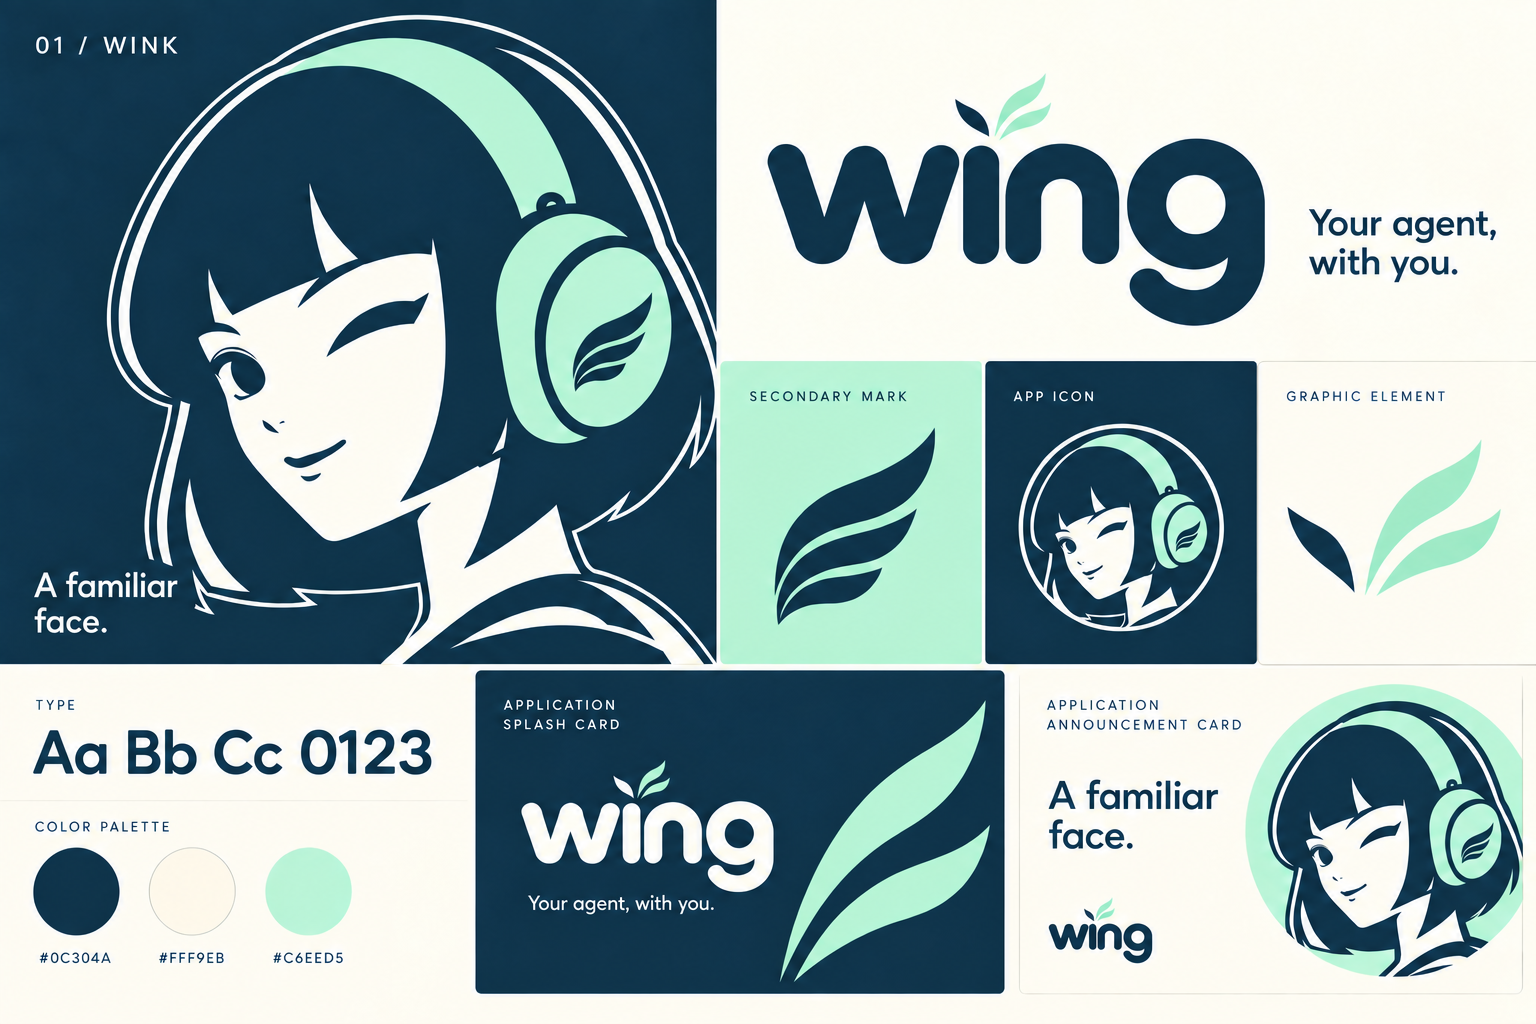
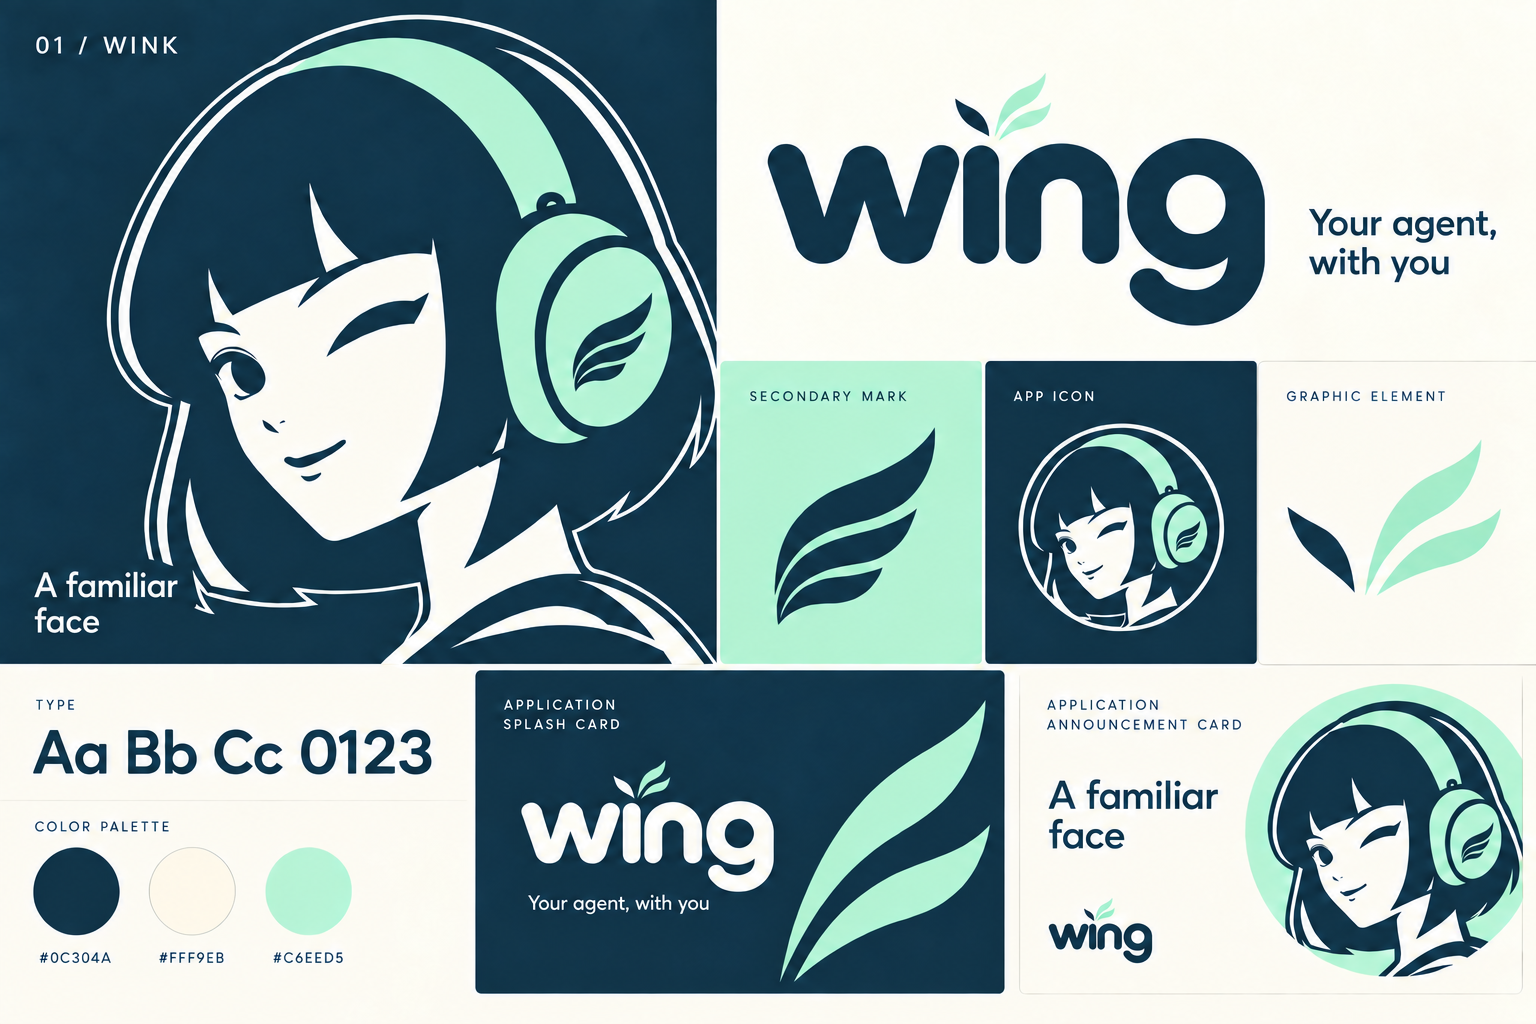
Remove full stops from Wing brand artwork

Changed region(s): [[0.375, 0.6875, 0.4062, 0.7188], [0.125, 0.5625, 0.1562, 0.5938]]

diff --git a/docs/design/2026-09-15-wing-identity-prompt.md b/docs/design/2026-09-15-wing-identity-prompt.md
@@ -1,5 +1,10 @@
 # Compact wordmark accents
 
+Final punctuation edit: remove the four terminal periods after the two instances
+of “A familiar face” and the two instances of “Your agent, with you”. Preserve
+the comma, lettering, layout and artwork. This supersedes punctuation in the
+original prompt below.
+
 Precise edit of the attached accepted Wing brand board. Make ONLY a subtle optical refinement to the THREE FEATHER ACCENTS ABOVE THE LOWERCASE i in all three wordmarks: the large top wordmark, the cream-on-navy lower-middle splash-card wordmark, and the small lower-right announcement wordmark.
 
 Reduce the three-feather cluster to about 82% of its current width and height (18% smaller), scaling around its lower anchor immediately above the i. Slightly tighten the internal gaps between the individual feathers, while preserving clearly visible separation and a small clear gap from the i stem. The cluster should feel like a compact dot accent, allowing the word wing to read first. Preserve precisely the pointed curved blade silhouettes, relative feather sizes and fan directions: ONE small left feather pointing up-left, TWO right feathers pointing up-right. Preserve color assignment: left navy on cream or cream on navy; two right mint. Three feathers remain visible. No rounded droplets, no additional dot, no joining feathers to letters.

diff --git a/docs/design/2026-09-15-wing-readme-hero-prompt.md b/docs/design/2026-09-15-wing-readme-hero-prompt.md
@@ -1,5 +1,9 @@
 # Wing README hero
 
+Final punctuation edit: remove the terminal period after “Your agent, with you”.
+Preserve the comma and all other lettering and artwork. This supersedes the
+tagline punctuation in the original prompt below.
+
 Adaptation of the approved [identity board](images/wing-identity-board.png) for the repository README. The identity specification remains authoritative.
 
 Create a polished GitHub README hero banner adapted from the attached APPROVED Wing identity board. This image is the reference for exact artwork and brand style, not a request to create another board. Output one wide landscape banner, aspect ratio 3:1, ideally 1920x640. Flat deep navy background #0C304A, cream #FFF9EB and mint #C6EED5 artwork, crisp graphic edges, no texture or shadows.

diff --git a/docs/design/2026-09-15-wing-identity.md b/docs/design/2026-09-15-wing-identity.md
@@ -34,8 +34,9 @@ and optional themed icons use the existing single wing. See the
 These colors belong to the artwork. Studio screen tokens and user accent
 preferences continue to govern controls. Rounded lettering and circular portrait
 masks remain part of the identity. The board's “Wink” heading is the original
-concept name; the product name is Wing. “Your agent, with you.” is the selected
-tagline, and “A familiar face.” is supporting copy.
+concept name; the product name is Wing. “Your agent, with you” is the selected
+tagline, and “A familiar face” is supporting copy. Omit terminal periods from
+brand-card and banner copy. Retain the comma in the tagline.
 
 ## Source and implementation boundary
 

diff --git a/README.md b/README.md
@@ -1,5 +1,5 @@
 <p align="center">
-  <img src="docs/design/images/wing-readme-hero.png" alt="Wing. Your agent, with you. An Android companion for Hermes Agent." width="1000">
+  <img src="docs/design/images/wing-readme-hero.png" alt="Wing: Your agent, with you | An Android companion for Hermes Agent" width="1000">
 </p>
 
 <p align="center">
